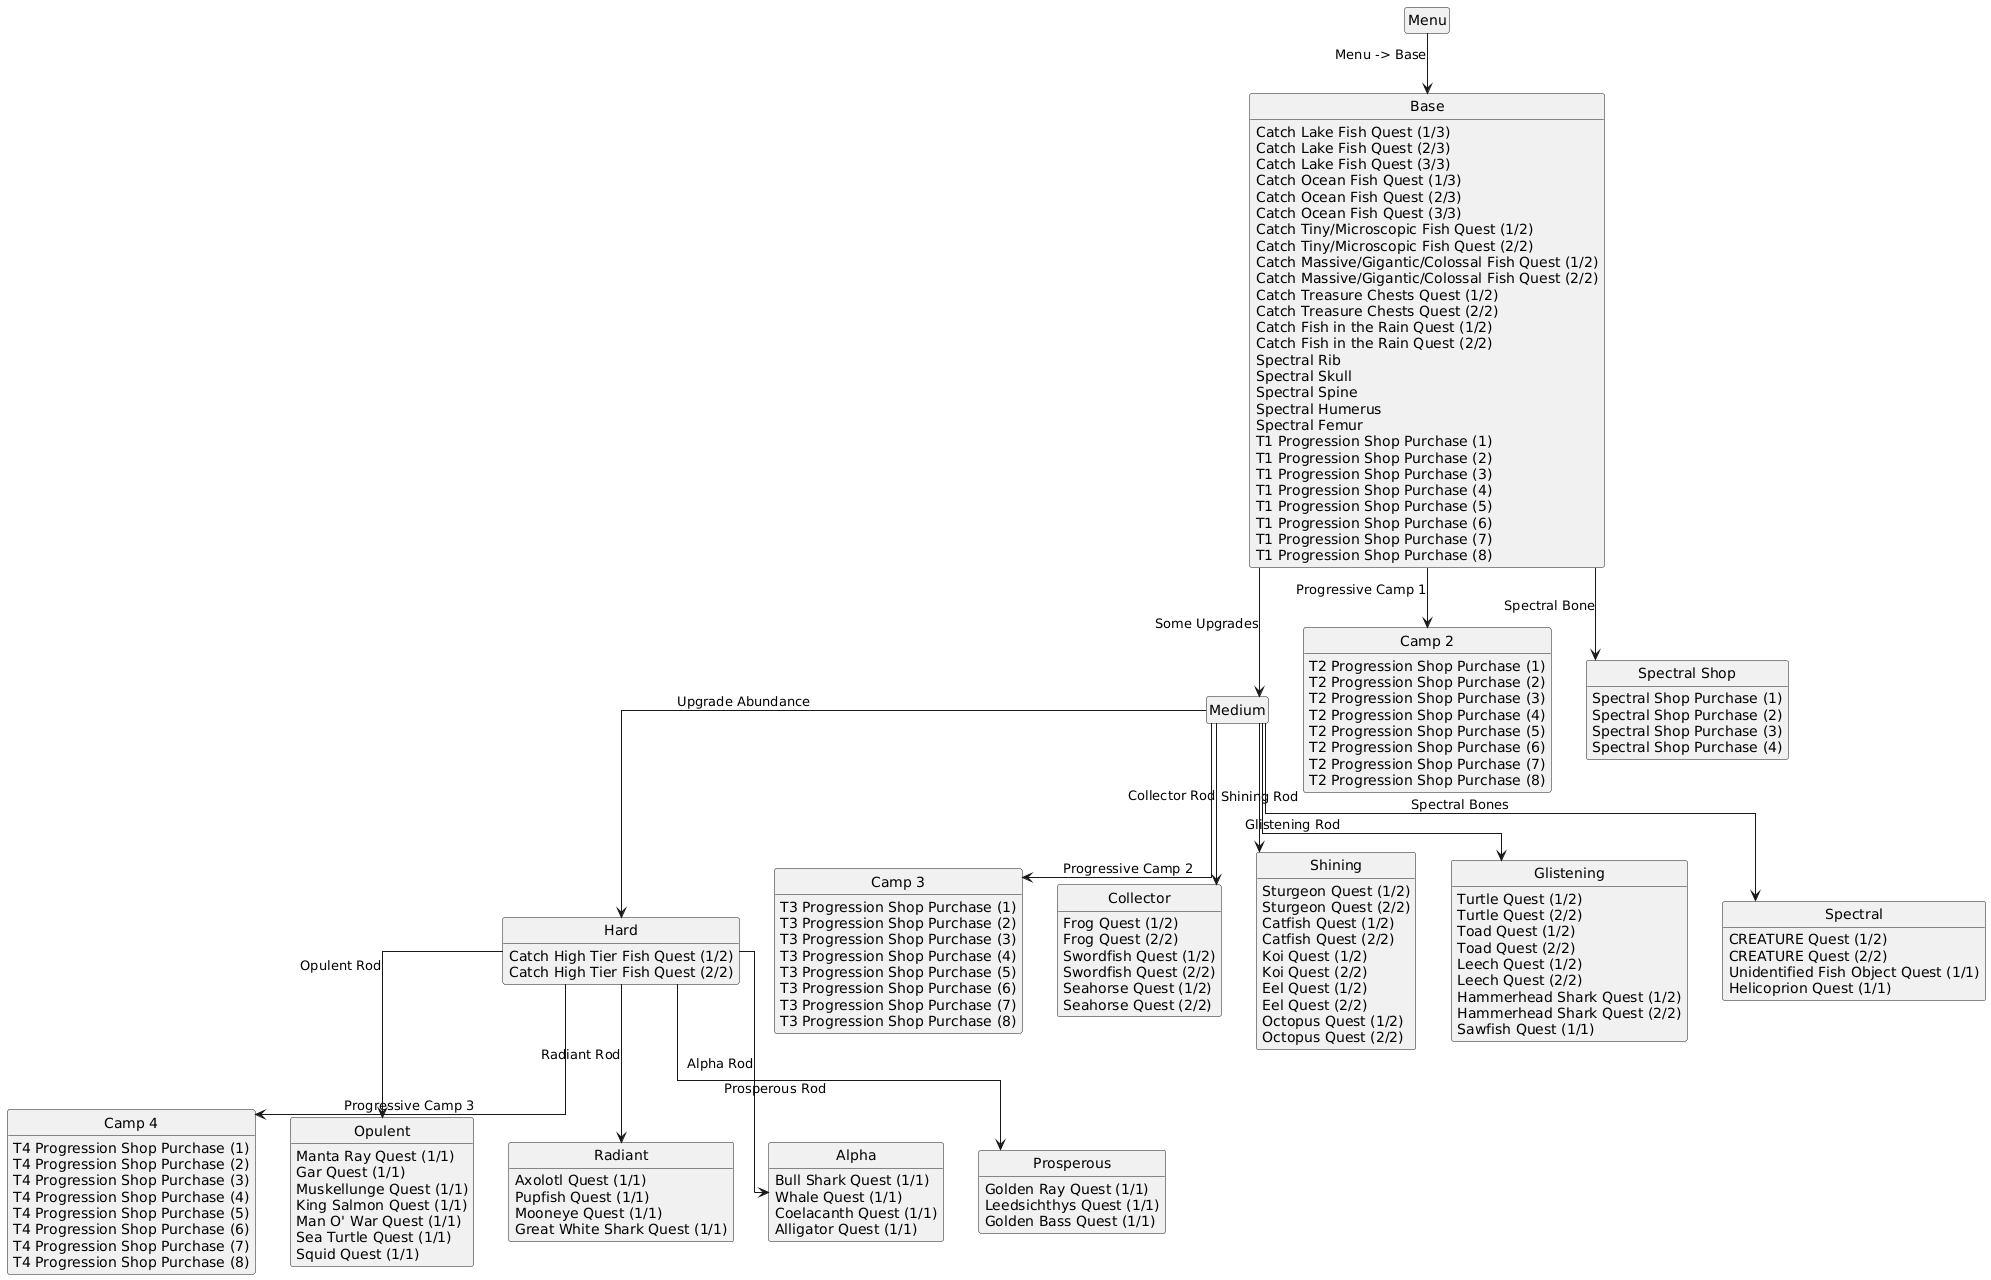
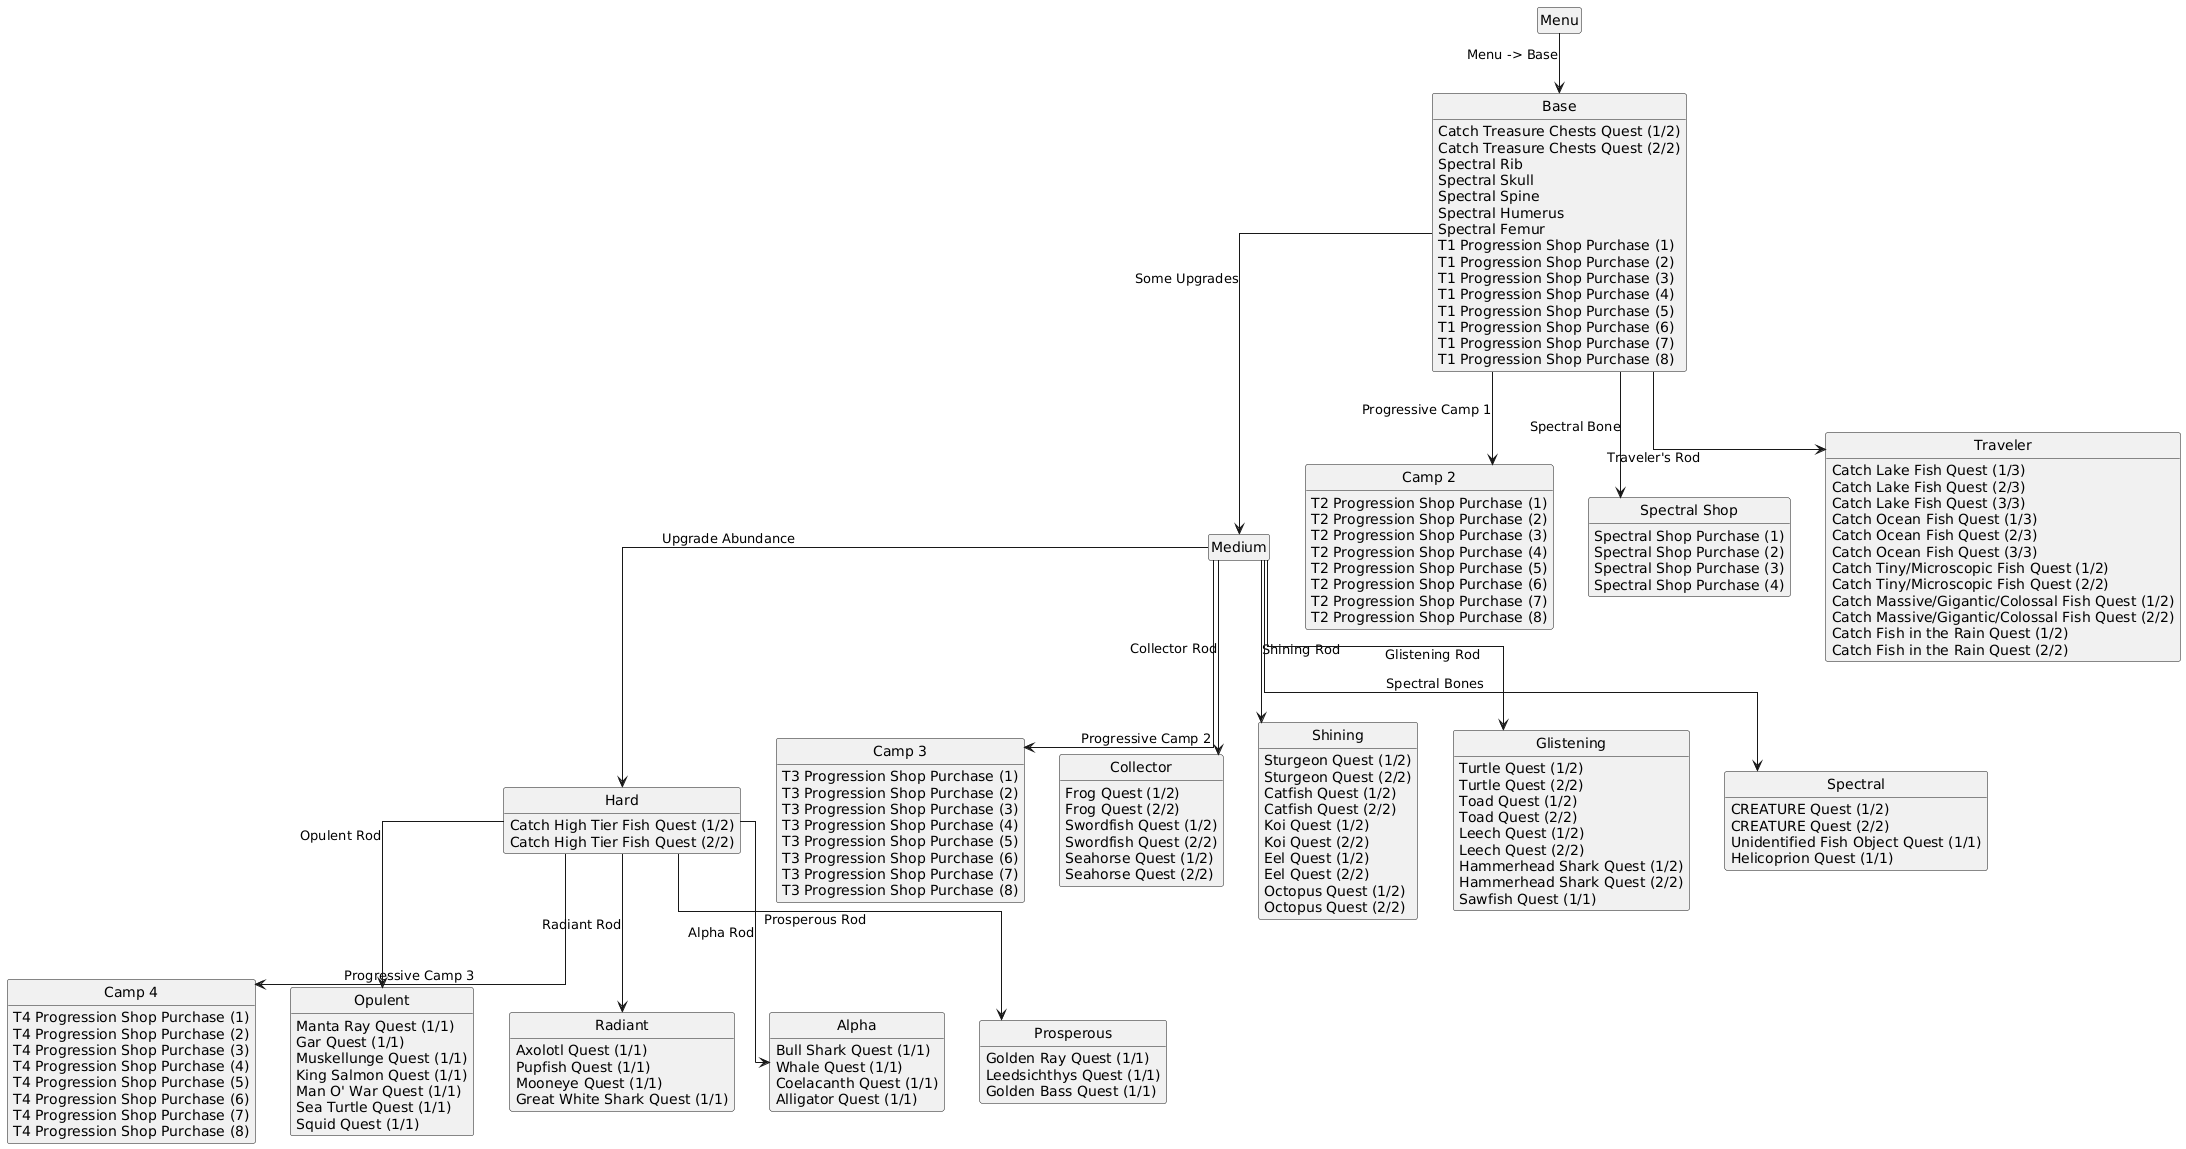
harmonized logic fix
whoops used two different spellings in the code too late now

diff --git a/world/webfishing/__init__.py b/world/webfishing/__init__.py
@@ -2,9 +2,9 @@ import settings
 from typing import Dict, Any
 from .options import WebfishingOptions
 from .items import (WebfishingItem, WebfishingItemData, item_table, fixed_quantities, rods, filler_weights)
-from .locations import (WebfishingAdvancement, base, scqe, hard, hard_specific, camp_2, camp_3, camp_4,
-                        all_advancements, collector, shining, glistening, opulent, radiant, alpha, prosperous, spectral,
-                        spectral_shop)
+from .locations import (WebfishingAdvancement, standard_base, harmonised_base, scqe, hard, hard_specific, camp_2,
+                        camp_3, camp_4, all_advancements, traveler, collector, shining, glistening, opulent, radiant,
+                        alpha, prosperous, spectral, spectral_shop)
 from worlds.AutoWorld import World
 from worlds.generic.Rules import set_rule
 from BaseClasses import Region, Item
@@ -37,7 +37,7 @@ class WebfishingWorld(World):
                 # Base (no items needed)
                 base_region = Region("Base", self.player, self.multiworld)
                 base_region.locations += [WebfishingAdvancement(self.player, loc_name, loc_data.id, base_region)
-                                          for loc_name, loc_data in (base | scqe).items()]
+                                          for loc_name, loc_data in (standard_base | scqe).items()]
 
                 # Medium (some progression items needed for time)
                 medium_region = Region("Medium", self.player, self.multiworld)
@@ -95,10 +95,16 @@ class WebfishingWorld(World):
                 # Base (no items needed)
                 base_region = Region("Base", self.player, self.multiworld)
                 base_region.locations += [WebfishingAdvancement(self.player, loc_name, loc_data.id, base_region)
-                                          for loc_name, loc_data in base.items()]
+                                          for loc_name, loc_data in harmonised_base.items()]
 
                 # Medium (some progression items needed for time)
                 medium_region = Region("Medium", self.player, self.multiworld)
+
+                # Collector (fish found with the standard collector rod)
+                traveler_region = Region("Traveler", self.player, self.multiworld)
+                traveler_region.locations += [WebfishingAdvancement(self.player, loc_name, loc_data.id,
+                                                                    traveler_region) for loc_name, loc_data in
+                                              traveler.items()]
 
                 # Hard (lots of progression items needed for time)
                 hard_region = Region("Hard", self.player, self.multiworld)
@@ -174,14 +180,14 @@ class WebfishingWorld(World):
                                                                          spectral_shop_region)
                                                    for loc_name, loc_data in spectral_shop.items()]
 
-                self.multiworld.regions += [menu_region, base_region, medium_region, hard_region, collector_region,
-                                            shining_region, glistening_region, opulent_region, radiant_region,
-                                            alpha_region, prosperous_region, spectral_region, camp_2_region,
-                                            camp_3_region, camp_4_region, spectral_shop_region]
+                self.multiworld.regions += [menu_region, base_region, traveler_region, medium_region, hard_region,
+                                            collector_region, shining_region, glistening_region, opulent_region,
+                                            radiant_region, alpha_region, prosperous_region, spectral_region,
+                                            camp_2_region, camp_3_region, camp_4_region, spectral_shop_region]
 
                 menu_region.connect(base_region)
                 base_region.add_exits({"Medium": "Some Upgrades", "Camp 2": "Progressive Camp 1",
-                                       "Spectral Shop": "Spectral Bone"})
+                                       "Spectral Shop": "Spectral Bone", "Traveler": "Traveler's Rod"})
                 medium_region.add_exits({"Hard": "Upgrade Abundance", "Camp 3": "Progressive Camp 2",
                                          "Collector": "Collector Rod", "Shining": "Shining Rod",
                                          "Glistening": "Glistening Rod", "Spectral": "Spectral Bones"})
@@ -237,6 +243,9 @@ class WebfishingWorld(World):
 
         # Harmonized mode only
         if self.options.game_mode.value == 1:
+            set_rule(self.multiworld.get_entrance("Traveler's Rod", self.player),
+                     lambda state: state.has("Traveler's Rod", self.player))
+
             set_rule(self.multiworld.get_entrance("Collector Rod", self.player),
                      lambda state: state.has("Collector's Rod", self.player))
 

diff --git a/world/webfishing/locations.py b/world/webfishing/locations.py
@@ -15,16 +15,22 @@ def populate_advancement_tables():
 
     # 3 lots of easy generic catch quests
     no = 3
-    for i, c in enumerate(gcq_easy):
+    for i, name in enumerate(gcq_easy):
         for x in range(no):
-            base[f"{c} Quest ({x + 1}/{no})"] = AdvData(quest_offset + counter)
+            title = f"{name} Quest ({x + 1}/{no})"
+            item = AdvData(quest_offset + counter)
+            standard_base[title] = item
+            assign_rod(name, title, item)
             counter += 1
 
     # 2 lots of normal generic catch quests
     no = 2
-    for i, c in enumerate(gcq_normal):
+    for i, name in enumerate(gcq_normal):
         for x in range(no):
-            base[f"{c} Quest ({x + 1}/{no})"] = AdvData(quest_offset + counter)
+            title = f"{name} Quest ({x + 1}/{no})"
+            item = AdvData(quest_offset + counter)
+            standard_base[title] = item
+            assign_rod(name, title, item)
             counter += 1
 
     # 2 lots of hard generic catch quests
@@ -59,7 +65,7 @@ def populate_advancement_tables():
 
     # one of each in misc
     for c in base_misc:
-        base[c] = AdvData(item_offset + counter)
+        standard_base[c] = AdvData(item_offset + counter)
         counter += 1
 
     # --- SHOPS --- #
@@ -71,7 +77,7 @@ def populate_advancement_tables():
 
     # t1 checks
     for i in range(8):
-        base[f"T1 Progression Shop Purchase ({i+1})"] = AdvData(shop_offset + counter)
+        standard_base[f"T1 Progression Shop Purchase ({i+1})"] = AdvData(shop_offset + counter)
         counter += 1
 
     # t2 checks
@@ -94,6 +100,10 @@ def populate_advancement_tables():
         spectral_shop[f"Spectral Shop Purchase ({i+1})"] = AdvData(shop_offset + counter)
         counter += 1
 
+    # configuring harmonised base for gcq
+    for key in standard_base:
+        if key not in traveler:
+            harmonised_base[key] = standard_base[key]
 
 def assign_rod(name, title, item):
     for category, catches in rod_categories.items():
@@ -128,6 +138,8 @@ base_misc = [
 
 # -- ROD CATEGORIES -- #
 rod_categories = {
+    "traveler": ["Catch Lake Fish", "Catch Ocean Fish", "Catch Tiny/Microscopic Fish",
+                 "Catch Massive/Gigantic/Colossal Fish", "Catch Fish in the Rain"],
     "collector": ["Frog", "Seahorse", "Swordfish"],
     "shining": ["Catfish", "Koi", "Sturgeon", "Eel", "Octopus"],
     "glistening": ["Leech", "Turtle", "Toad", "Hammerhead Shark", "Sawfish"],
@@ -139,6 +151,7 @@ rod_categories = {
 }
 
 # quests requiring respective rods
+traveler = {}
 collector = {}
 shining = {}
 glistening = {}
@@ -149,6 +162,7 @@ prosperous = {}
 spectral = {}
 
 category_mapping = {
+    "traveler": traveler,
     "collector": collector,
     "shining": shining,
     "glistening": glistening,
@@ -159,7 +173,10 @@ category_mapping = {
     "spectral": spectral
 }
 
-base = {}  # always sphere 1
+# sphere 1
+standard_base = {}
+harmonised_base = {}
+
 scqe = {}  # specific catch quest easy - position depends on game mode
 hard = {}  # soft requirement for lots of resources
 hard_specific = {}  # same as hard, but toggleable
@@ -174,4 +191,4 @@ shop_offset: int = 95200
 
 populate_advancement_tables()
 
-all_advancements = base | scqe | hard | hard_specific | camp_2 | camp_3 | camp_4 | spectral_shop
+all_advancements = standard_base | scqe | hard | hard_specific | camp_2 | camp_3 | camp_4 | spectral_shop
